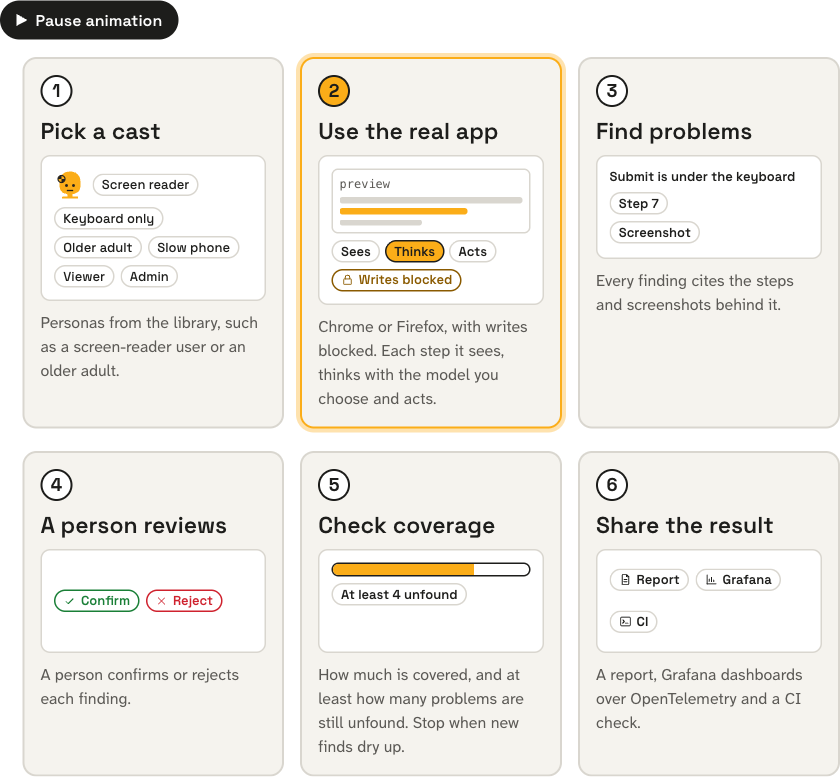
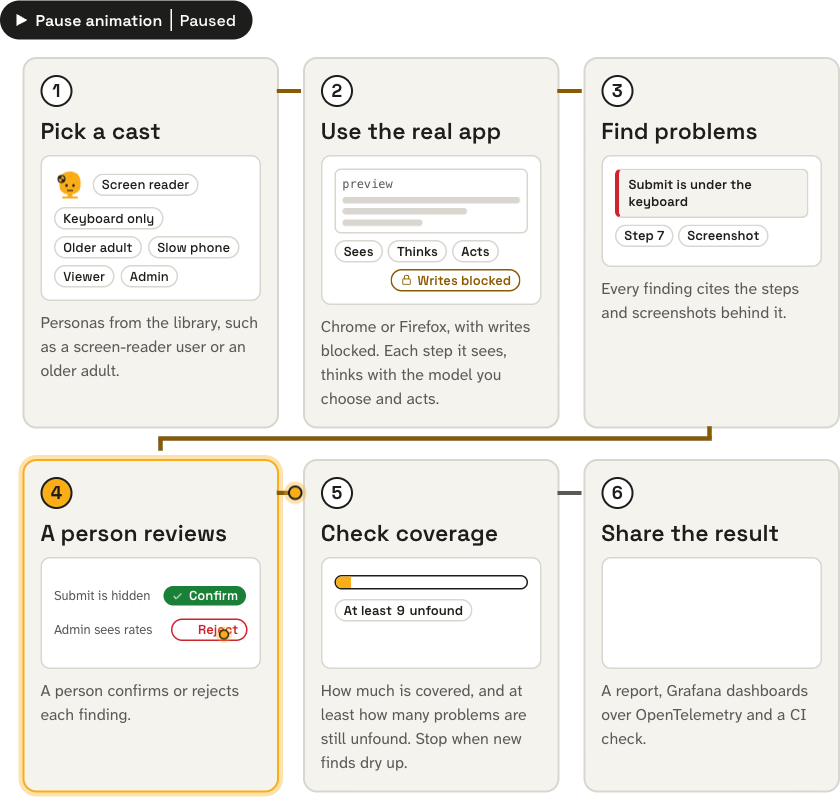
Join the flow steps with a drawn path and animate inside each card

diff --git a/site/assets/css/site.css b/site/assets/css/site.css
@@ -605,8 +605,10 @@ td code, th code { white-space: nowrap; }
 
 .prose .graphic, .prose .figure-block { margin: 0.75rem 0 1.5rem; }
 
-/* The whole flow: six steps, lit one after another. Still and fully readable until site.js turns the motion on. */
-.flow { --cyc: 24s; --g-paper: var(--paper); --g-ink: var(--ink); --g-muted: var(--ink-muted); --g-rule: var(--rule); margin: 1.75rem 0; }
+/* The whole flow: six steps joined by a path, lit one after another. Still and fully readable until site.js turns the motion on. */
+@property --n { syntax: "<integer>"; inherits: false; initial-value: 4; }
+.flow { --cyc: 18s; --gap: 1.5rem; --lw: 4px; --lx: 2rem; --ly: 2rem; --g-paper: var(--paper); --g-ink: var(--ink); --g-muted: var(--ink-muted); --g-rule: var(--rule); margin: 1.75rem 0; }
+.flow.is-compact { --ly: 50%; }
 .flow-controls { margin: 0 0 1rem; }
 .flow-toggle { display: inline-flex; align-items: center; gap: 0.5rem; padding: 0.4rem 0.9rem; border: 2px solid var(--ink); border-radius: 999px; background: transparent; color: var(--ink); font-family: var(--font-heading); font-weight: 600; font-size: var(--type-small); line-height: 1.4; cursor: pointer; }
 .flow-toggle[hidden] { display: none; }
@@ -615,75 +617,182 @@ td code, th code { white-space: nowrap; }
 .flow-toggle:focus-visible { outline: 3px solid var(--text-amber); outline-offset: 3px; }
 .flow-toggle-icon { width: 0.7rem; height: 0.8rem; border-left: 3px solid currentColor; border-right: 3px solid currentColor; }
 .flow-toggle[aria-pressed="true"] .flow-toggle-icon { width: 0; height: 0; border: 0.4rem solid transparent; border-left: 0.7rem solid currentColor; border-right: 0; }
-.flow-steps { list-style: none; margin: 0; padding: 0; display: grid; grid-template-columns: 1fr; gap: 1rem; }
+.flow-toggle-state { display: none; padding-left: 0.5rem; border-left: 1.5px solid currentColor; font-weight: 500; }
+.flow-toggle[aria-pressed="true"] .flow-toggle-state { display: inline; }
+.flow-steps { list-style: none; margin: 0; padding: 0; display: grid; grid-template-columns: 1fr; gap: var(--gap); }
 @media (min-width: 30em) { .flow-steps { grid-template-columns: repeat(2, minmax(0, 1fr)); } }
 @media (min-width: 48em) { .flow-steps { grid-template-columns: repeat(3, minmax(0, 1fr)); } }
 .flow-step { position: relative; display: flex; flex-direction: column; gap: 0.6rem; min-width: 0; padding: 1rem; border: 2px solid var(--rule); border-radius: var(--radius); background: var(--panel); }
 .flow-num { display: grid; place-items: center; width: 2rem; height: 2rem; border-radius: 50%; border: 2px solid var(--ink); font-family: var(--font-heading); font-weight: 700; line-height: 1; color: var(--ink); background: var(--paper); }
 .flow-name { font-family: var(--font-heading); font-weight: 600; font-size: var(--type-subtitle); line-height: 1.25; }
 .flow .flow-text { margin: 0; font-size: var(--type-small); color: var(--ink-muted); max-width: none; }
-.flow-art { display: flex; flex-wrap: wrap; align-items: center; gap: 0.4rem; min-height: 6.5rem; padding: 0.75rem; border-radius: 0.6rem; background: var(--paper); border: 1.5px solid var(--rule); font-size: var(--type-caption); line-height: 1.3; color: var(--ink); }
-.flow-art .flow-mascot { width: 2rem; height: 2rem; flex: none; }
-.flow-chip, .flow-pill, .flow-evidence, .flow-verdict, .flow-out, .flow-lock, .flow-count { display: inline-flex; align-items: center; gap: 0.3rem; padding: 0.1em 0.6em; border-radius: 999px; border: 1.5px solid var(--rule); background: var(--paper); font-family: var(--font-heading); font-weight: 600; }
+.flow-art { position: relative; display: flex; flex-wrap: wrap; align-items: center; gap: 0.4rem; min-height: 7rem; padding: 0.75rem; border-radius: 0.6rem; background: var(--paper); border: 1.5px solid var(--rule); font-size: var(--type-caption); line-height: 1.3; color: var(--ink); overflow: hidden; }
+.flow-art .flow-mascot { width: 2rem; height: 2rem; flex: none; transform-origin: 50% 90%; }
+.flow-chip, .flow-pill, .flow-evidence, .flow-verdict, .flow-out, .flow-lock, .flow-count, .flow-post, .flow-stop { display: inline-flex; align-items: center; gap: 0.3rem; padding: 0.1em 0.6em; border-radius: 999px; border: 1.5px solid var(--rule); background: var(--paper); font-family: var(--font-heading); font-weight: 600; }
 .flow-art svg { width: 1em; height: 1em; flex: none; }
+.flow-chip { font-weight: 500; }
 .is-run { flex-direction: column; align-items: stretch; }
 .flow-browser { display: grid; gap: 0.3rem; padding: 0.4rem; border: 1.5px solid var(--rule); border-radius: 0.4rem; }
 .flow-url { color: var(--ink-muted); }
-.flow-line { display: block; height: 0.4rem; border-radius: 3px; background: var(--rule); }
+.flow-line { display: block; height: 0.4rem; border-radius: 3px; background: var(--rule); transform-origin: 0 50%; }
 .flow-line:nth-child(3) { width: 70%; }
 .flow-line:nth-child(4) { width: 45%; }
 .flow-acts { display: flex; flex-wrap: wrap; gap: 0.3rem; }
-.flow-lock { align-self: flex-start; color: var(--text-amber); border-color: currentColor; }
+.flow-block { display: flex; align-items: center; gap: 0.4rem; }
+.flow-post { color: var(--blocker); border-color: currentColor; font-family: var(--font-mono); font-weight: 500; }
+.flow-lock { color: var(--text-amber); border-color: currentColor; }
 .is-find { flex-direction: column; align-items: flex-start; }
-.flow-claim { font-family: var(--font-heading); font-weight: 600; }
-.is-find .flow-evidence { margin-right: 0.3rem; }
-.is-review .flow-verdict.is-yes { color: var(--pass); border-color: currentColor; }
-.is-review .flow-verdict.is-no { color: var(--blocker); border-color: currentColor; }
-.is-cover { flex-direction: column; align-items: stretch; }
+.flow-claim { padding: 0.4rem 0.6rem; border: 1.5px solid var(--rule); border-left: 4px solid var(--blocker); border-radius: 0.4rem; background: var(--panel); font-family: var(--font-heading); font-weight: 600; }
+.flow-tags { display: flex; flex-wrap: wrap; gap: 0.3rem; }
+.is-review { flex-direction: column; align-items: stretch; justify-content: center; gap: 0.7rem; }
+.flow-row { display: flex; align-items: center; justify-content: space-between; gap: 0.4rem; }
+.flow-mini { color: var(--ink-muted); }
+.flow-verdict.is-yes { color: var(--pass); border-color: currentColor; }
+.flow-verdict.is-no { color: var(--blocker); border-color: currentColor; }
+.flow-cursor { display: none; position: absolute; width: 14px; height: 14px; margin: -7px 0 0 -7px; border-radius: 50%; background: var(--amber); border: 2px solid #1d1d1b; box-shadow: 0 0 0 4px rgba(251, 173, 24, 0.35); z-index: 2; }
+.is-cover { flex-direction: column; align-items: stretch; justify-content: center; gap: 0.6rem; }
 .flow-meter { display: block; height: 0.9rem; border-radius: 999px; border: 1.5px solid var(--ink); overflow: hidden; background: var(--paper); }
 .flow-meter-fill { display: block; width: 72%; height: 100%; background: var(--amber); }
-.flow-count { align-self: flex-start; }
-.flow-chip { font-weight: 500; }
+.flow-sums { display: flex; flex-wrap: wrap; gap: 0.4rem; }
+.flow-n { counter-set: flown var(--n); }
+.flow-n::after { content: counter(flown); }
+.flow-out { transform-origin: 0 100%; }
+.flow-art .flow-spark { width: 2rem; height: 0.9rem; }
+.flow-spark path { stroke-dasharray: 1; stroke-dashoffset: 0; }
+
+/* the path between steps: a still line, then an amber line that draws over it */
+.flow-link, .flow-token { display: none; }
+.flow-link { display: block; position: absolute; pointer-events: none; --c: var(--ink-muted); }
+.flow-link-fill { display: none; position: absolute; inset: 0; --c: var(--text-amber); }
+.flow-link, .flow-link-fill { background: linear-gradient(var(--c), var(--c)); }
+/* one column: straight down from under the number */
+.flow-link { left: calc(var(--lx) - var(--lw) / 2); top: 100%; width: var(--lw); height: var(--gap); --clip0: inset(0 0 100% 0); }
+.flow-step { --wrapw: 0px; }
+.flow-token { position: absolute; width: 0.9rem; height: 0.9rem; margin: -0.45rem 0 0 -0.45rem; border-radius: 50%; background: var(--amber); border: 2px solid #1d1d1b; box-shadow: 0 0 0 4px rgba(251, 173, 24, 0.35); z-index: 3; left: var(--lx); top: 100%; }
+/* two columns */
+@media (min-width: 30em) {
+  .flow-step:nth-child(odd) { --wrapw: 0px; }
+  .flow-step:nth-child(even) { --wrapw: calc(100% + var(--gap)); }
+  .flow-step:nth-child(odd) .flow-link { left: 100%; top: calc(var(--ly) - var(--lw) / 2); width: var(--gap); height: var(--lw); --clip0: inset(0 100% 0 0); }
+  .flow-step:nth-child(even) .flow-link, .flow-step:nth-child(even) .flow-link-fill { left: auto; right: 50%; top: 100%; width: calc(100% + var(--gap)); height: var(--gap); --clip0: inset(0 0 0 100%); background: linear-gradient(var(--c), var(--c)) right top / var(--lw) 50% no-repeat, linear-gradient(var(--c), var(--c)) 0 50% / 100% var(--lw) no-repeat, linear-gradient(var(--c), var(--c)) left bottom / var(--lw) 50% no-repeat; }
+  .flow-step:nth-child(even) .flow-link-fill { inset: 0; right: 0; width: auto; }
+}
+/* three columns */
+@media (min-width: 48em) {
+  .flow-step { --wrapw: 0px; }
+  .flow-step:nth-child(3) { --wrapw: calc(200% + 2 * var(--gap)); }
+  .flow-step:is(:nth-child(1), :nth-child(2), :nth-child(4), :nth-child(5)) .flow-link { right: auto; left: 100%; top: calc(var(--ly) - var(--lw) / 2); width: var(--gap); height: var(--lw); --clip0: inset(0 100% 0 0); background: linear-gradient(var(--c), var(--c)); }
+  .flow-step:is(:nth-child(1), :nth-child(2), :nth-child(4), :nth-child(5)) .flow-link-fill { inset: 0; width: auto; height: auto; --clip0: inherit; background: linear-gradient(var(--c), var(--c)); }
+  .flow-step:nth-child(3) .flow-link, .flow-step:nth-child(3) .flow-link-fill { left: auto; right: 50%; top: 100%; width: calc(200% + 2 * var(--gap)); height: var(--gap); --clip0: inset(0 0 0 100%); background: linear-gradient(var(--c), var(--c)) right top / var(--lw) 50% no-repeat, linear-gradient(var(--c), var(--c)) 0 50% / 100% var(--lw) no-repeat, linear-gradient(var(--c), var(--c)) left bottom / var(--lw) 50% no-repeat; }
+  .flow-step:nth-child(3) .flow-link-fill { inset: 0; right: 0; width: auto; height: auto; }
+}
+.flow-link-fill { --clip0: inherit; }
 /* the short version on the home page: names only */
 .flow.is-compact .flow-art, .flow.is-compact .flow-text { display: none; }
 .flow.is-compact .flow-step { flex-direction: row; align-items: center; padding: 0.75rem 1rem; }
 .flow.is-compact .flow-name { font-size: var(--type-body); }
 
 @media (prefers-reduced-motion: no-preference) {
-  .flow.is-live .flow-step { animation: flow-step var(--cyc) linear infinite; animation-delay: calc(var(--i) * var(--cyc) / 6); }
-  .flow.is-live .flow-num { animation: flow-num var(--cyc) linear infinite; animation-delay: calc(var(--i) * var(--cyc) / 6); }
-  .flow.is-live .flow-pill, .flow.is-live .flow-verdict { animation: flow-on var(--cyc) linear infinite; animation-delay: calc(var(--i) * var(--cyc) / 6 + var(--d)); }
-  .flow.is-live .flow-chip, .flow.is-live .flow-evidence, .flow.is-live .flow-out { animation: flow-pop var(--cyc) linear infinite; animation-delay: calc(var(--i) * var(--cyc) / 6 + var(--d)); }
-  .flow.is-live .flow-line { animation: flow-line var(--cyc) linear infinite; animation-delay: calc(var(--i) * var(--cyc) / 6 + var(--d)); }
-  .flow.is-live .flow-meter-fill { animation: flow-fill var(--cyc) linear infinite; animation-delay: calc(var(--i) * var(--cyc) / 6); }
+  .flow.is-live .flow-link-fill { display: block; }
+  .flow.is-live .flow-token { display: block; opacity: 0; }
+  .flow.is-live .flow-cursor { display: block; opacity: 0; }
+  .flow.is-live .flow-step, .flow.is-live .flow-num { animation-duration: var(--cyc); animation-timing-function: linear; animation-iteration-count: infinite; animation-delay: calc(var(--i) * var(--cyc) / 6); }
+  .flow.is-live .flow-step { animation-name: flow-step; }
+  .flow.is-live .flow-num { animation-name: flow-num; }
+  /* inside the active card. Parts start hidden when the card lights and stay until the loop comes round again. */
+  .flow.is-live :is(.flow-chip, .flow-line, .flow-claim, .flow-evidence, .flow-out, .flow-stop, .flow-spark path, .flow-meter-fill, .flow-count, .flow-pill, .flow-post, .flow-lock, .flow-verdict, .flow-verdict svg, .flow-cursor, .flow-mascot) { animation-duration: var(--cyc); animation-timing-function: linear; animation-iteration-count: infinite; animation-fill-mode: backwards; animation-delay: calc(var(--i) * var(--cyc) / 6 + var(--d, 0s)); }
+  .flow.is-live .flow-spark path { animation-name: flow-spark; }
+  .flow.is-live .flow-chip, .flow.is-live .flow-stop { animation-name: flow-pop; }
+  .flow.is-live .flow-line { animation-name: flow-type; }
+  .flow.is-live .flow-claim { animation-name: flow-slide; }
+  .flow.is-live .flow-evidence { animation-name: flow-attach; }
+  .flow.is-live .flow-out { animation-name: flow-fan; }
+  .flow.is-live .flow-pill { animation-name: flow-on; }
+  .flow.is-live .flow-post { animation-name: flow-bounce; }
+  .flow.is-live .flow-lock { animation-name: flow-snap; }
+  .flow.is-live .flow-meter-fill { animation-name: flow-fill; }
+  .flow.is-live .flow-count { animation-name: flow-count; }
+  .flow.is-live .flow-mascot { animation-name: flow-wave; animation-fill-mode: none; animation-delay: calc(var(--i) * var(--cyc) / 6 + 0.2s); }
+  .flow.is-live .flow-cursor { animation-name: flow-cursor; }
+  .flow.is-live .is-yes { animation-name: flow-yes; }
+  .flow.is-live .is-no { animation-name: flow-no; }
+  .flow.is-live .is-yes svg { animation-name: flow-tick; animation-delay: calc(var(--i) * var(--cyc) / 6 + var(--d) + 0.9s); }
+  .flow.is-live .is-no svg { animation-name: flow-tick; animation-delay: calc(var(--i) * var(--cyc) / 6 + var(--d) + 2.2s); }
+  .flow.is-live .is-yes, .flow.is-live .is-no { animation-fill-mode: none; }
+  .flow.is-live .flow-link-fill { animation-duration: var(--cyc); animation-timing-function: linear; animation-iteration-count: infinite; }
+  .flow.is-live .flow-token { animation-duration: var(--cyc); animation-timing-function: linear; animation-iteration-count: infinite; animation-delay: calc(var(--i) * var(--cyc) / 6); animation-name: flow-tk-v; }
+  @media (min-width: 30em) {
+    .flow.is-live .flow-step:nth-child(odd) .flow-token { animation-name: flow-tk-h; left: 100%; top: var(--ly); }
+    .flow.is-live .flow-step:nth-child(even) .flow-token { animation-name: flow-tk-w; left: 50%; top: 100%; }
+  }
+  @media (min-width: 48em) {
+    .flow.is-live .flow-step:is(:nth-child(1), :nth-child(2), :nth-child(4), :nth-child(5)) .flow-token { animation-name: flow-tk-h; left: 100%; top: var(--ly); }
+    .flow.is-live .flow-step:nth-child(3) .flow-token { animation-name: flow-tk-w; left: 50%; top: 100%; }
+  }
+  .flow.is-live .flow-step:nth-child(1) .flow-link-fill { animation-name: flow-draw-0; }
+  .flow.is-live .flow-step:nth-child(2) .flow-link-fill { animation-name: flow-draw-1; }
+  .flow.is-live .flow-step:nth-child(3) .flow-link-fill { animation-name: flow-draw-2; }
+  .flow.is-live .flow-step:nth-child(4) .flow-link-fill { animation-name: flow-draw-3; }
+  .flow.is-live .flow-step:nth-child(5) .flow-link-fill { animation-name: flow-draw-4; }
   .flow.is-paused *, .flow.is-paused *::before, .flow.is-paused *::after { animation-play-state: paused; }
-  /* one step takes 16.67 percent of the cycle, about four seconds */
+  .flow.is-live .flow-count .flow-n { animation: flow-n var(--cyc) linear infinite backwards; animation-delay: calc(var(--i) * var(--cyc) / 6 + var(--d)); }
+
+  /* one step takes 16.67 percent of the cycle, 3 seconds. One percent is 0.18 seconds. */
   @keyframes flow-step {
-    0% { border-color: var(--rule); box-shadow: 0 0 0 0 transparent; }
+    0%, 1.9% { border-color: var(--rule); box-shadow: 0 0 0 0 transparent; }
     2%, 14.5% { border-color: var(--amber); box-shadow: 0 0 0 4px rgba(251, 173, 24, 0.35); }
     16.67%, 100% { border-color: var(--rule); box-shadow: 0 0 0 0 transparent; }
   }
   @keyframes flow-num {
-    0% { background: var(--paper); color: var(--ink); border-color: var(--ink); }
+    0%, 1.9% { background: var(--paper); color: var(--ink); border-color: var(--ink); }
     2%, 14.5% { background: var(--amber); color: #1d1d1b; border-color: #1d1d1b; }
-    16.67%, 100% { background: var(--paper); color: var(--ink); border-color: var(--ink); }
+    14.6%, 100% { background: var(--paper); color: var(--ink); border-color: var(--ink); }
   }
+  @keyframes flow-pop { 0% { transform: scale(0); } 2% { transform: scale(1.14); } 3.5%, 100% { transform: none; } }
+  @keyframes flow-type { 0% { transform: scaleX(0); } 3%, 100% { transform: none; } }
+  @keyframes flow-slide { 0% { transform: translateY(-0.9rem) scale(0); } 3% { transform: translateY(0.12rem) scale(1); } 4.5%, 100% { transform: none; } }
+  @keyframes flow-attach { 0% { transform: translate(-1.2rem, -0.5rem) rotate(-10deg) scale(0); } 3% { transform: translate(0.12rem, 0.05rem) rotate(2deg) scale(1); } 4.5%, 100% { transform: none; } }
+  @keyframes flow-fan { 0% { transform: translate(-1.5rem, 0.5rem) rotate(var(--r)) scale(0); } 3% { transform: translate(0.1rem, -0.1rem) rotate(2deg) scale(1.04); } 4.5%, 100% { transform: none; } }
   @keyframes flow-on {
-    0%, 0.5% { background: var(--paper); color: var(--ink); border-color: var(--rule); }
-    1.5%, 6% { background: var(--amber); color: #1d1d1b; border-color: #1d1d1b; }
-    7.5%, 100% { background: var(--paper); color: var(--ink); border-color: var(--rule); }
+    0%, 1.9% { background: var(--paper); color: var(--ink); border-color: var(--rule); }
+    2%, 6% { background: var(--amber); color: #1d1d1b; border-color: #1d1d1b; }
+    6.1%, 100% { background: var(--paper); color: var(--ink); border-color: var(--rule); }
   }
-  @keyframes flow-pop {
-    0% { transform: translateY(0.35rem) scale(0.94); }
-    2.5%, 100% { transform: none; }
+  @keyframes flow-bounce { 0%, 8%, 100% { transform: translateX(-1rem) scale(0); } 1% { transform: translateX(-1rem) scale(1); } 3% { transform: translateX(0.5rem) scale(1); } 5.5% { transform: translateX(-0.8rem) scale(1); } 7% { transform: translateX(-1rem) scale(0.8); } }
+  @keyframes flow-snap { 0%, 2.5%, 6%, 100% { transform: none; } 3.2% { transform: scale(1.22); } 4.5% { transform: scale(0.95); } }
+  @keyframes flow-fill { 0%, 1% { width: 8%; } 9%, 100% { width: 72%; } }
+  @keyframes flow-count { 0%, 100% { transform: none; } 1% { transform: none; } 9.5% { transform: scale(1.08); } 11%, 99% { transform: none; } }
+  @keyframes flow-n { 0%, 1% { --n: 9; } 9%, 100% { --n: 4; } }
+  @keyframes flow-spark { 0% { stroke-dashoffset: 1; } 6%, 100% { stroke-dashoffset: 0; } }
+  @keyframes flow-wave { 0%, 9%, 100% { transform: none; } 1.5% { transform: translateY(-0.2rem) rotate(-14deg); } 3% { transform: translateY(0) rotate(14deg); } 4.5% { transform: translateY(-0.2rem) rotate(-14deg); } 6% { transform: translateY(0) rotate(10deg); } }
+  @keyframes flow-cursor {
+    0% { opacity: 0; left: 40%; top: 88%; transform: scale(1); }
+    1.5% { opacity: 1; left: 40%; top: 88%; }
+    5% { opacity: 1; left: calc(100% - 2.4rem); top: 30%; transform: scale(1); }
+    6% { transform: scale(0.7); }
+    7% { transform: scale(1); }
+    10% { opacity: 1; left: calc(100% - 2.2rem); top: 70%; }
+    11% { transform: scale(0.7); }
+    12% { transform: scale(1); }
+    14.5% { opacity: 1; }
+    16%, 100% { opacity: 0; left: calc(100% - 2.2rem); top: 70%; }
   }
-  @keyframes flow-line {
-    0%, 0.5% { background: var(--rule); }
-    1.5%, 6% { background: var(--amber); }
-    7.5%, 100% { background: var(--rule); }
+  @keyframes flow-yes { 0%, 6.9% { background: var(--paper); color: var(--pass); } 7%, 100% { background: var(--pass); color: var(--paper); } }
+  @keyframes flow-no { 0%, 12.9% { background: var(--paper); color: var(--blocker); } 13%, 100% { background: var(--blocker); color: var(--paper); } }
+  @keyframes flow-tick { 0% { transform: scale(0); } 2% { transform: scale(1.5); } 3.5%, 100% { transform: none; } }
+  @keyframes flow-tk-h { 0%, 9% { opacity: 0; } 9.5% { opacity: 1; transform: none; } 15.8% { opacity: 1; margin-left: calc(var(--gap) - 0.45rem); } 16.4%, 100% { opacity: 0; margin-left: calc(var(--gap) - 0.45rem); } }
+  @keyframes flow-tk-v { 0%, 9% { opacity: 0; } 9.5% { opacity: 1; margin-top: -0.45rem; } 15.8% { opacity: 1; margin-top: calc(var(--gap) - 0.45rem); } 16.4%, 100% { opacity: 0; margin-top: calc(var(--gap) - 0.45rem); } }
+  @keyframes flow-tk-w {
+    0%, 9% { opacity: 0; margin: -0.45rem 0 0 -0.45rem; }
+    9.5% { opacity: 1; margin: -0.45rem 0 0 -0.45rem; }
+    10.8% { opacity: 1; margin: calc(var(--gap) / 2 - 0.45rem) 0 0 -0.45rem; }
+    14.5% { opacity: 1; margin: calc(var(--gap) / 2 - 0.45rem) 0 0 calc(-1 * var(--wrapw) - 0.45rem); }
+    15.8% { opacity: 1; margin: calc(var(--gap) - 0.45rem) 0 0 calc(-1 * var(--wrapw) - 0.45rem); }
+    16.4%, 100% { opacity: 0; margin: calc(var(--gap) - 0.45rem) 0 0 calc(-1 * var(--wrapw) - 0.45rem); }
   }
-  @keyframes flow-fill {
-    0% { width: 30%; }
-    12%, 100% { width: 72%; }
-  }
+  @keyframes flow-draw-0 { 0%, 9.50% { opacity: 1; clip-path: var(--clip0); } 15.83%, 96% { opacity: 1; clip-path: inset(0); } 99% { opacity: 0; clip-path: inset(0); } 100% { opacity: 0; clip-path: var(--clip0); } }
+  @keyframes flow-draw-1 { 0%, 26.17% { opacity: 1; clip-path: var(--clip0); } 32.50%, 96% { opacity: 1; clip-path: inset(0); } 99% { opacity: 0; clip-path: inset(0); } 100% { opacity: 0; clip-path: var(--clip0); } }
+  @keyframes flow-draw-2 { 0%, 42.83% { opacity: 1; clip-path: var(--clip0); } 49.17%, 96% { opacity: 1; clip-path: inset(0); } 99% { opacity: 0; clip-path: inset(0); } 100% { opacity: 0; clip-path: var(--clip0); } }
+  @keyframes flow-draw-3 { 0%, 59.50% { opacity: 1; clip-path: var(--clip0); } 65.83%, 96% { opacity: 1; clip-path: inset(0); } 99% { opacity: 0; clip-path: inset(0); } 100% { opacity: 0; clip-path: var(--clip0); } }
+  @keyframes flow-draw-4 { 0%, 76.17% { opacity: 1; clip-path: var(--clip0); } 82.50%, 96% { opacity: 1; clip-path: inset(0); } 99% { opacity: 0; clip-path: inset(0); } 100% { opacity: 0; clip-path: var(--clip0); } }
 }

diff --git a/site/layouts/_partials/graphics/flow.html b/site/layouts/_partials/graphics/flow.html
@@ -1,61 +1,67 @@
 {{- /* The whole flow from a cast to the outputs, in six steps. Pure CSS motion, switched on by site.js. With no JavaScript or with reduced motion it is a static, readable list. The list is the text equivalent. Pass compact=true for the short version. */ -}}
 {{- $compact := .compact | default false -}}
 <div class="flow{{ if $compact }} is-compact{{ end }}" role="group" aria-label="The whole flow, from a cast of personas to the report">
-  <p class="flow-controls"><button type="button" class="flow-toggle" aria-pressed="false" hidden><span class="flow-toggle-icon" aria-hidden="true"></span>Pause animation</button></p>
+  <p class="flow-controls"><button type="button" class="flow-toggle" aria-pressed="false" hidden><span class="flow-toggle-icon" aria-hidden="true"></span>Pause animation<span class="flow-toggle-state" aria-hidden="true">Paused</span></button></p>
   <ol class="flow-steps">
     <li class="flow-step" style="--i:0">
       <span class="flow-num" aria-hidden="true">1</span>
       <span class="flow-name">Pick a cast</span>
       <div class="flow-art is-cast" aria-hidden="true">
         {{ partial "icons/mascot.html" (dict "class" "flow-mascot") }}
-        <span class="flow-chip" style="--d:0.1s">Screen reader</span><span class="flow-chip" style="--d:0.3s">Keyboard only</span><span class="flow-chip" style="--d:0.5s">Older adult</span><span class="flow-chip" style="--d:0.7s">Slow phone</span><span class="flow-chip" style="--d:0.9s">Viewer</span><span class="flow-chip" style="--d:1.1s">Admin</span>
+        <span class="flow-chip" style="--d:0.1s">Screen reader</span><span class="flow-chip" style="--d:0.4s">Keyboard only</span><span class="flow-chip" style="--d:0.7s">Older adult</span><span class="flow-chip" style="--d:1s">Slow phone</span><span class="flow-chip" style="--d:1.3s">Viewer</span><span class="flow-chip" style="--d:1.6s">Admin</span>
       </div>
       <p class="flow-text">Personas from the library, such as a screen-reader user or an older adult.</p>
+      <span class="flow-link" aria-hidden="true"><span class="flow-link-fill"></span></span><span class="flow-token" aria-hidden="true"></span>
     </li>
     <li class="flow-step" style="--i:1">
       <span class="flow-num" aria-hidden="true">2</span>
       <span class="flow-name">Use the real app</span>
       <div class="flow-art is-run" aria-hidden="true">
-        <div class="flow-browser"><span class="flow-url g-code">preview</span><span class="flow-line" style="--d:0.2s"></span><span class="flow-line" style="--d:1.5s"></span><span class="flow-line" style="--d:2.8s"></span></div>
-        <div class="flow-acts"><span class="flow-pill" style="--d:0.2s">Sees</span><span class="flow-pill" style="--d:1.5s">Thinks</span><span class="flow-pill" style="--d:2.8s">Acts</span></div>
-        <span class="flow-lock">{{ partial "icons/icon.html" (dict "name" "lock") }}Writes blocked</span>
+        <div class="flow-browser"><span class="flow-url g-code">preview</span><span class="flow-line" style="--d:0.1s"></span><span class="flow-line" style="--d:0.35s"></span><span class="flow-line" style="--d:0.6s"></span></div>
+        <div class="flow-acts"><span class="flow-pill" style="--d:0.3s">Sees</span><span class="flow-pill" style="--d:1s">Thinks</span><span class="flow-pill" style="--d:1.7s">Acts</span></div>
+        <div class="flow-block"><span class="flow-post" style="--d:1.9s">POST</span><span class="flow-lock" style="--d:1.9s">{{ partial "icons/icon.html" (dict "name" "lock") }}Writes blocked</span></div>
       </div>
       <p class="flow-text">Chrome or Firefox, with writes blocked. Each step it sees, thinks with the model you choose and acts.</p>
+      <span class="flow-link" aria-hidden="true"><span class="flow-link-fill"></span></span><span class="flow-token" aria-hidden="true"></span>
     </li>
     <li class="flow-step" style="--i:2">
       <span class="flow-num" aria-hidden="true">3</span>
       <span class="flow-name">Find problems</span>
       <div class="flow-art is-find" aria-hidden="true">
-        <span class="flow-claim">Submit is under the keyboard</span>
-        <span class="flow-evidence" style="--d:0.6s">Step 7</span><span class="flow-evidence" style="--d:1.4s">Screenshot</span>
+        <span class="flow-claim" style="--d:0.1s">Submit is under the keyboard</span>
+        <span class="flow-tags"><span class="flow-evidence" style="--d:1s">Step 7</span><span class="flow-evidence" style="--d:1.6s">Screenshot</span></span>
       </div>
       <p class="flow-text">Every finding cites the steps and screenshots behind it.</p>
+      <span class="flow-link" aria-hidden="true"><span class="flow-link-fill"></span></span><span class="flow-token" aria-hidden="true"></span>
     </li>
     <li class="flow-step" style="--i:3">
       <span class="flow-num" aria-hidden="true">4</span>
       <span class="flow-name">A person reviews</span>
       <div class="flow-art is-review" aria-hidden="true">
-        <span class="flow-verdict is-yes" style="--d:0.4s">{{ partial "icons/icon.html" (dict "name" "tick") }}Confirm</span>
-        <span class="flow-verdict is-no" style="--d:2s">{{ partial "icons/icon.html" (dict "name" "cross") }}Reject</span>
+        <div class="flow-row"><span class="flow-mini">Submit is hidden</span><span class="flow-verdict is-yes" style="--d:0.2s">{{ partial "icons/icon.html" (dict "name" "tick") }}Confirm</span></div>
+        <div class="flow-row"><span class="flow-mini">Admin sees rates</span><span class="flow-verdict is-no" style="--d:0.2s">{{ partial "icons/icon.html" (dict "name" "cross") }}Reject</span></div>
+        <span class="flow-cursor" style="--d:0.2s"></span>
       </div>
       <p class="flow-text">A person confirms or rejects each finding.</p>
+      <span class="flow-link" aria-hidden="true"><span class="flow-link-fill"></span></span><span class="flow-token" aria-hidden="true"></span>
     </li>
     <li class="flow-step" style="--i:4">
       <span class="flow-num" aria-hidden="true">5</span>
       <span class="flow-name">Check coverage</span>
       <div class="flow-art is-cover" aria-hidden="true">
-        <span class="flow-meter"><span class="flow-meter-fill"></span></span>
-        <span class="flow-count">At least 4 unfound</span>
+        <span class="flow-meter"><span class="flow-meter-fill" style="--d:0.4s"></span></span>
+        <span class="flow-sums"><span class="flow-count" style="--d:0.4s">At least <span class="flow-n"></span> unfound</span><span class="flow-stop" style="--d:1.9s">Stop when flat</span></span>
       </div>
       <p class="flow-text">How much is covered, and at least how many problems are still unfound. Stop when new finds dry up.</p>
+      <span class="flow-link" aria-hidden="true"><span class="flow-link-fill"></span></span><span class="flow-token" aria-hidden="true"></span>
     </li>
     <li class="flow-step" style="--i:5">
       <span class="flow-num" aria-hidden="true">6</span>
       <span class="flow-name">Share the result</span>
       <div class="flow-art is-out" aria-hidden="true">
-        <span class="flow-out" style="--d:0.2s">{{ partial "icons/icon.html" (dict "name" "report") }}Report</span>
-        <span class="flow-out" style="--d:0.8s">{{ partial "icons/icon.html" (dict "name" "chart") }}Grafana</span>
-        <span class="flow-out" style="--d:1.4s">{{ partial "icons/icon.html" (dict "name" "terminal") }}CI</span>
+        <span class="flow-out" style="--d:0.2s;--r:-28deg">{{ partial "icons/icon.html" (dict "name" "report") }}Report</span>
+        <span class="flow-out" style="--d:0.7s;--r:-28deg"><svg class="flow-spark" viewBox="0 0 32 14" fill="none" stroke="currentColor" stroke-width="2" stroke-linecap="round" stroke-linejoin="round"><path pathLength="1" style="--d:1.2s" d="M1 11l5-4 4 2 5-7 5 6 4-3 7 5"/></svg>Grafana</span>
+        <span class="flow-out" style="--d:1.2s;--r:-28deg">{{ partial "icons/icon.html" (dict "name" "terminal") }}CI</span>
       </div>
       <p class="flow-text">A report, Grafana dashboards over OpenTelemetry and a CI check.</p>
     </li>
